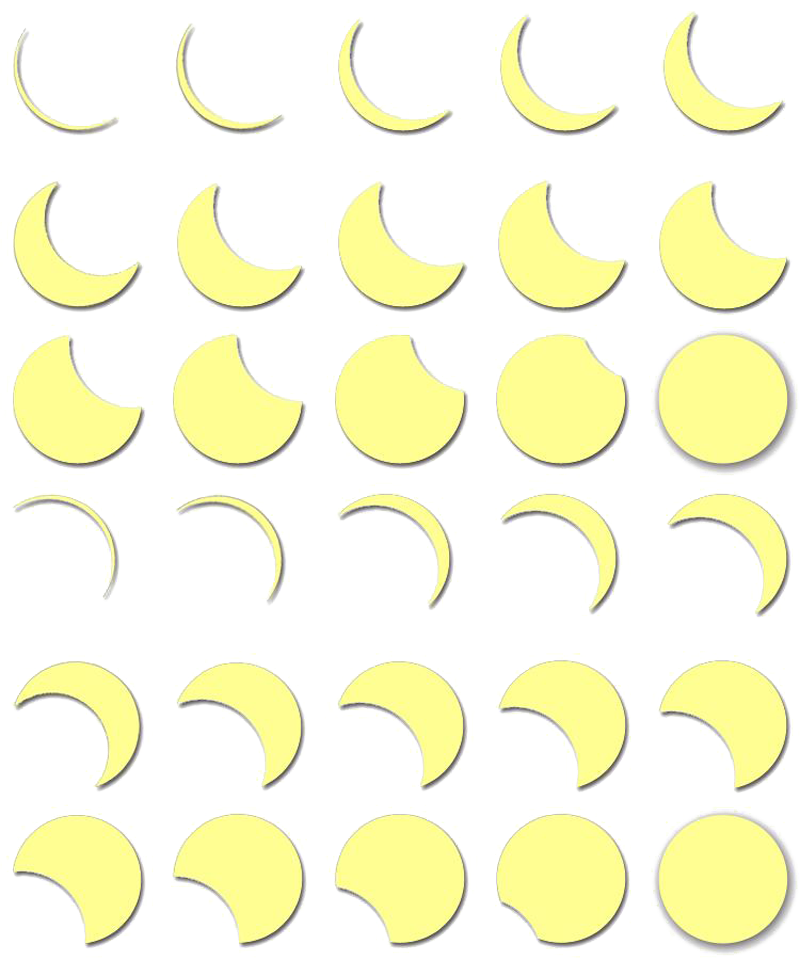
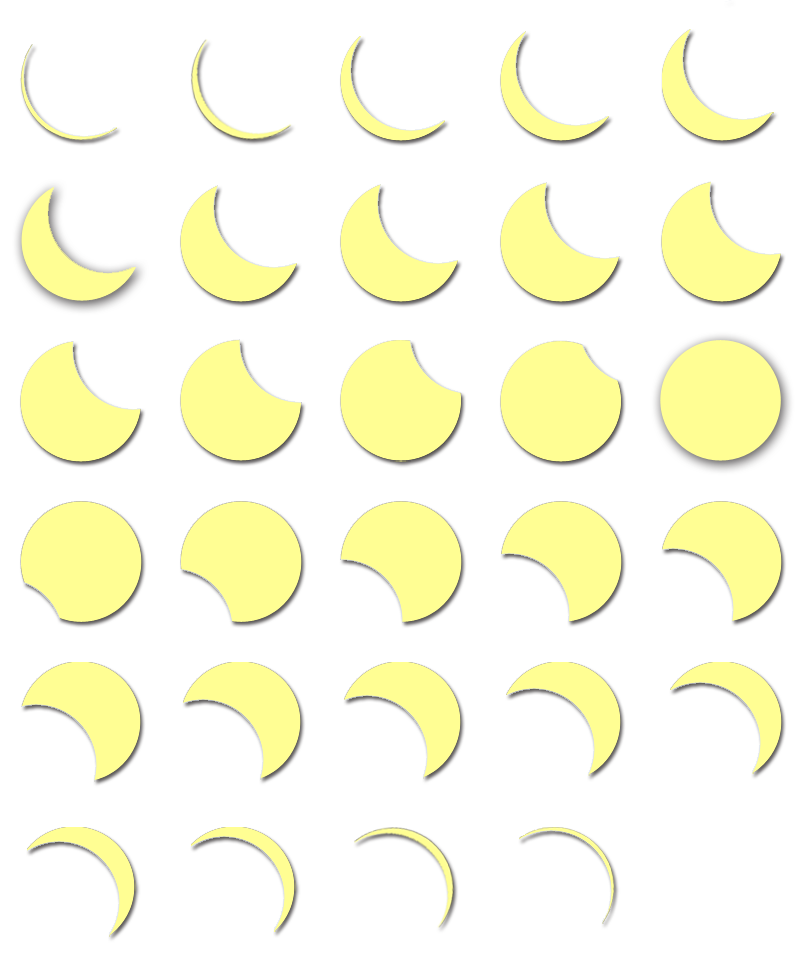
[MOD] Changes the moon image and defaults to empty.

diff --git a/statics/styles/style.css b/statics/styles/style.css
@@ -185,7 +185,7 @@ a:hover
 
 #moon
 {
-    background: url('../images/moon.png') no-repeat;
+    background: url('../images/moon.png') -640px -800px no-repeat;
     margin-left: 15px;
     width: 160px;
 }
